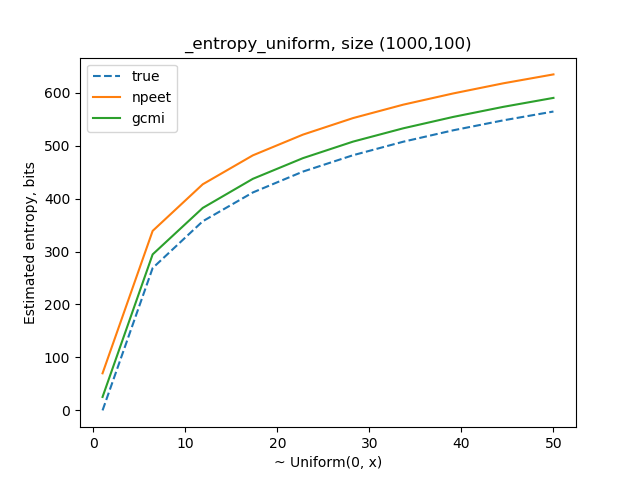
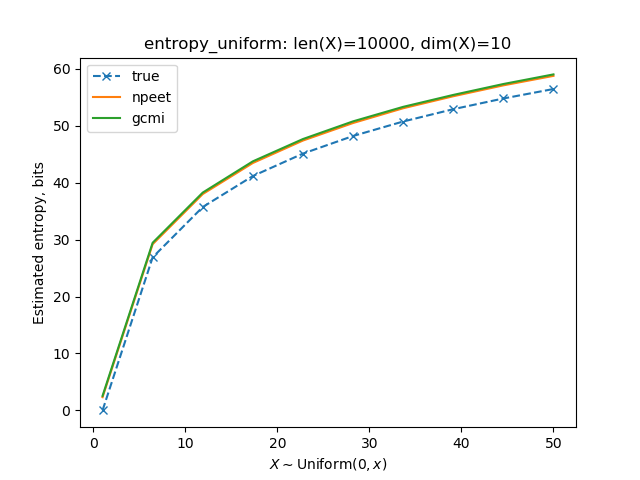
unified entropy and MI tests

diff --git a/experiments/mutual_information_test.py b/experiments/mutual_information_test.py
@@ -1,17 +1,14 @@
-import math
-import warnings
 from collections import defaultdict
 
 import matplotlib.pyplot as plt
 import numpy as np
-import sklearn.cluster
 from tqdm import tqdm
 
-from estimators import mine_mi, npeet_mi, gcmi_mi, discrete_mi, discrete_entropy
+from estimators import mine_mi, npeet_mi, gcmi_mi
 from experiments.entropy_test import generate_normal_correlated
 from utils.algebra import entropy_normal_theoretic
 from utils.common import set_seed, timer_profile, Timer
-from utils.constants import IMAGES_DIR
+from utils.constants import IMAGES_DIR, TIMINGS_DIR
 
 
 class MITest:
@@ -71,45 +68,15 @@ class MITest:
         return gcmi_mi(x, y)
 
     @timer_profile
-    def kmeans(self, n_clusters=None):
-        x = self.normalize(self.x)
-        y = self.normalize(self.y)
-        xy = np.c_[x, y]
-
-        def _kmeans(n_cl):
-            cluster = sklearn.cluster.KMeans(n_clusters=n_cl, n_init=2, max_iter=10)
-            with warnings.catch_warnings():
-                warnings.simplefilter('ignore')
-                x_clusters = cluster.fit_predict(x)
-                y_clusters = cluster.fit_predict(y)
-                xy_clusters = cluster.fit_predict(xy)
-            h_x = discrete_entropy(x_clusters)
-            h_y = discrete_entropy(y_clusters)
-            h_xy = discrete_entropy(xy_clusters)
-            return h_x + h_y - h_xy
-
-        if n_clusters is None:
-            n_clusters_max = math.ceil(math.sqrt(x.shape[0]))
-            n_clusters_max = max(2, n_clusters_max)
-            n_candidates = np.arange(n_clusters_max, 2*n_clusters_max + 1, step=1, dtype=int)
-            n_candidates = np.arange(n_clusters_max, x.shape[0] // 2, step=50)
-            mi = {n_cl: _kmeans(n_cl) for n_cl in n_candidates}
-            if self.verbose:
-                plt.plot(list(mi.keys()), list(mi.values()))
-                plt.show()
-            return max(mi.values())
-
-        return _kmeans(n_clusters)
-
-    @timer_profile
     def mine(self):
         x = self.normalize(self.x)
         y = self.normalize(self.y)
-        return mine_mi(x, y, hidden_units=128, epochs=50, verbose=self.verbose)
+        noise_std = 0.1 * np.std(x)
+        return mine_mi(x, y, hidden_units=128, epochs=50, noise_std=noise_std, verbose=self.verbose)
 
     def run_all(self):
         estimated = {}
-        for estimator in (self.npeet, self.gcmi, self.mine, self.kmeans):
+        for estimator in (self.npeet, self.gcmi, self.mine):
             try:
                 estimated[estimator.__name__] = estimator()
             except Exception as e:
@@ -127,8 +94,9 @@ def _mi_squared_integers(n_samples, n_features, param):
     return x, y, value_true
 
 
-def _mi_normal_correlated(n_samples, n_features, param):
-    xy, h_xy, cov_xy = generate_normal_correlated(n_samples, 2 * n_features, param)
+def _mi_normal_correlated(n_samples, n_features, param, loc=None):
+    # 2*n_features to generate both X and Y
+    xy, h_xy, cov_xy = generate_normal_correlated(n_samples, 2 * n_features, sigma=param, loc=loc)
     x, y = np.split(xy, 2, axis=1)
     cov_x = cov_xy[:n_features, :n_features]
     cov_y = cov_xy[n_features:, n_features:]
@@ -138,7 +106,13 @@ def _mi_normal_correlated(n_samples, n_features, param):
     return x, y, value_true
 
 
-def _mi_additive_noise(n_samples, n_features, param):
+def _mi_normal_different_location(n_samples, n_features, param):
+    # generate Multivariate Normal samples with sigma=10 and uniform locations
+    loc = np.random.uniform(low=0, high=param, size=2 * n_features)
+    return _mi_normal_correlated(n_samples=n_samples, n_features=n_features, param=10, loc=loc)
+
+
+def _mi_additive_normal_noise(n_samples, n_features, param):
     x, h_x, cov_x = generate_normal_correlated(n_samples, n_features, param)
     noise, h_noise, cov_noise = generate_normal_correlated(n_samples, n_features, 0.5 * param)
     y = x + noise
@@ -149,30 +123,38 @@ def _mi_additive_noise(n_samples, n_features, param):
 
 def mi_test(generator, n_samples=1000, n_features=10, parameters=np.linspace(1, 50, num=10), xlabel=''):
     estimated = defaultdict(list)
-    for param in tqdm(parameters, desc="entropy_test"):
+    for param in tqdm(parameters, desc=f"{generator.__name__} test"):
         x, y, mi_true = generator(n_samples, n_features, param)
-        # MITest(x=x, y=y, mi_true=mi_true, verbose=True).mine()
         estimated_test = MITest(x=x, y=y, mi_true=mi_true, verbose=False).run_all()
         estimated['true'].append(mi_true)
         for estimator_name, estimator_value in estimated_test.items():
             estimated[estimator_name].append(estimator_value)
     value_true = estimated.pop('true')
     plt.figure()
-    plt.plot(parameters, value_true, label='true', ls='--')
+    plt.plot(parameters, value_true, label='true', ls='--', marker='x')
     for estimator_name, estimator_value in estimated.items():
         plt.plot(parameters, estimator_value, label=estimator_name)
     plt.xlabel(xlabel)
     plt.ylabel('Estimated Mutual Information, bits')
-    plt.title(f"{generator.__name__}, size ({n_samples},{n_features})")
+    plt.title(f"{generator.__name__.lstrip('_mi_')}: len(X)={n_samples}, dim(X)={n_features}")
     plt.legend()
     plt.savefig(IMAGES_DIR / f"{generator.__name__}.png")
     plt.show()
 
 
-if __name__ == '__main__':
+def mi_all_tests(n_samples=10_000, n_features=10):
     set_seed(26)
-    # mi_test(_mi_squared_integers, n_samples=1000, n_features=5, xlabel='X ~ [0, x]; Y = X ^ 2')
-    # mi_test(_mi_normal_correlated, n_samples=1000, n_features=5, xlabel='XY ~ N(0, cov); cov ~ x')
-    mi_test(_mi_additive_noise, n_samples=1000, n_features=5, xlabel='X ~ N(0, x); Y = X + Noise')
+    mi_test(_mi_squared_integers, n_samples=n_samples, n_features=n_features,
+            xlabel=r'$X \sim $Randint$(0, x); Y = X^2$')
+    mi_test(_mi_normal_correlated, n_samples=n_samples, n_features=n_features,
+            xlabel=r'$XY \sim \mathcal{N}(0, \sigma^2), \sigma \sim $Uniform$(0, x)$')
+    mi_test(_mi_additive_normal_noise, n_samples=n_samples, n_features=n_features,
+            xlabel=r'$X \sim \mathcal{N}(0, x^2); Y = X + \epsilon,'
+                   r'\epsilon \sim \mathcal{N}(0,\left(\frac{x}{2}\right)^2$)')
+    mi_test(_mi_normal_different_location, n_samples=n_samples, n_features=n_features,
+            xlabel=r'$XY \sim \mathcal{N}(\mu, 10^2), \mu \sim $Uniform$(0, x)$')
+    Timer.checkpoint(fpath=TIMINGS_DIR / "mutual_information.txt")
 
-    Timer.checkpoint()
+
+if __name__ == '__main__':
+    mi_all_tests()

diff --git a/experiments/entropy_test.py b/experiments/entropy_test.py
@@ -4,10 +4,10 @@ import matplotlib.pyplot as plt
 import numpy as np
 from tqdm import tqdm
 
-from estimators import npeet_entropy, gcmi_entropy, discrete_entropy
-from utils.common import set_seed, timer_profile, Timer
-from utils.constants import IMAGES_DIR
+from estimators import npeet_entropy, gcmi_entropy
 from utils.algebra import entropy_normal_theoretic
+from utils.common import set_seed, timer_profile, Timer
+from utils.constants import IMAGES_DIR, TIMINGS_DIR
 
 
 class EntropyTest:
@@ -64,63 +64,70 @@ class EntropyTest:
         return estimated
 
 
-def generate_normal_correlated(n_samples, n_features, sigma):
+def generate_normal_correlated(n_samples, n_features, sigma, loc=None):
     cov = np.random.uniform(low=0, high=sigma, size=(n_features, n_features))
     cov = cov.dot(cov.T)  # make cov positive definite
-    x = np.random.multivariate_normal(mean=np.repeat(0, n_features), cov=cov, size=n_samples)
-    value_true = entropy_normal_theoretic(cov)
-    return x, value_true, cov
+    if loc is None:
+        loc = np.repeat(0, n_features)
+    x = np.random.multivariate_normal(mean=loc, cov=cov, size=n_samples)
+    entropy_true = entropy_normal_theoretic(cov)
+    return x, entropy_true, cov
 
 
 def _entropy_normal_correlated(n_samples, n_features, param):
-    x, value_true, cov = generate_normal_correlated(n_samples, n_features, param)
-    return x, value_true
+    x, entropy_true, cov = generate_normal_correlated(n_samples, n_features, param)
+    return x, entropy_true
 
 
 def _entropy_uniform(n_samples, n_features, param):
-    x = np.random.uniform(low=-param / 2, high=param / 2, size=(n_samples, n_features))
-    value_true = n_features * np.log2(param)
-    return x, value_true
+    x = np.random.uniform(low=0, high=param, size=(n_samples, n_features))
+    entropy_true = n_features * np.log2(param)
+    return x, entropy_true
 
 
 def _entropy_exponential(n_samples, n_features, param):
     # here param is scale (inverse of rate)
     x = np.random.exponential(scale=param, size=(n_samples, n_features))
-    value_true = n_features * (1. + np.log(param)) * np.log2(np.e)
-    return x, value_true
+    entropy_true = n_features * (1. + np.log(param)) * np.log2(np.e)
+    return x, entropy_true
 
 
 def _entropy_randint(n_samples, n_features, param):
     x = np.random.randint(low=0, high=param + 1, size=(n_samples, n_features))
-    value_true = n_features * np.log2(param)
-    return x, value_true
+    entropy_true = n_features * np.log2(param)
+    return x, entropy_true
 
 
 def entropy_test(generator, n_samples=1000, n_features=10, parameters=np.linspace(1, 50, num=10), xlabel=''):
     estimated = defaultdict(list)
-    for param in tqdm(parameters, desc="entropy_test"):
-        x, true = generator(n_samples, n_features, param)
-        estimated_test = EntropyTest(x=x, entropy_true=true, verbose=False).run_all()
-        estimated['true'].append(true)
+    for param in tqdm(parameters, desc=f"{generator.__name__} test"):
+        x, entropy_true = generator(n_samples, n_features, param)
+        estimated_test = EntropyTest(x=x, entropy_true=entropy_true, verbose=False).run_all()
+        estimated['true'].append(entropy_true)
         for estimator_name, estimator_value in estimated_test.items():
             estimated[estimator_name].append(estimator_value)
-    value_true = estimated.pop('true')
+    entropy_true = estimated.pop('true')
     plt.figure()
-    plt.plot(parameters, value_true, label='true', ls='--')
+    plt.plot(parameters, entropy_true, label='true', ls='--', marker='x')
     for estimator_name, estimator_value in estimated.items():
         plt.plot(parameters, estimator_value, label=estimator_name)
     plt.xlabel(xlabel)
     plt.ylabel('Estimated entropy, bits')
-    plt.title(f"{generator.__name__}, size ({n_samples},{n_features})")
+    plt.title(f"{generator.__name__.lstrip('_')}: len(X)={n_samples}, dim(X)={n_features}")
     plt.legend()
     plt.savefig(IMAGES_DIR / f"{generator.__name__}.png")
     plt.show()
 
 
-if __name__ == '__main__':
+def entropy_all_tests(n_samples=10_000, n_features=10):
     set_seed(26)
-    entropy_test(_entropy_randint, n_samples=2000, n_features=11, parameters=np.arange(1, 10), xlabel='~ [0, high=x]')
-    entropy_test(_entropy_normal_correlated, n_features=100, xlabel='~ MultiVariateNormal(0, cov~x)')
-    entropy_test(_entropy_uniform, n_features=100, xlabel='~ Uniform(0, x)')
-    entropy_test(_entropy_exponential, n_features=100, xlabel='~ Exp(scale=x)')
-    Timer.checkpoint()
+    entropy_test(_entropy_randint, n_samples=n_samples, n_features=n_features, xlabel=r'$X \sim $Randint$(0, x)$')
+    entropy_test(_entropy_normal_correlated, n_samples=n_samples, n_features=n_features,
+                 xlabel=r'$X \sim \mathcal{N}(0, \sigma^2), \sigma \sim $Uniform$(0, x)$')
+    entropy_test(_entropy_uniform, n_samples=n_samples, n_features=n_features, xlabel=r'$X \sim $Uniform$(0, x)$')
+    entropy_test(_entropy_exponential, n_samples=n_samples, n_features=n_features, xlabel=r'$X \sim $Exp(scale=x)')
+    Timer.checkpoint(fpath=TIMINGS_DIR / "entropy.txt")
+
+
+if __name__ == '__main__':
+    entropy_all_tests()

diff --git a/estimators/mine.py b/estimators/mine.py
@@ -131,7 +131,7 @@ class MutualInfoNeuralEstimationTrainer:
         plt.xlabel("Iteration")
         plt.ylabel("I(X;Y), bits")
         plt.title(f"max(I) = {mi_smooth[mi_argmax]:.2f} bits")
-        plt.scatter(mi_argmax, mi_smooth[mi_argmax], c='#ff7f0e', marker='D')
+        plt.scatter(mi_argmax, mi_smooth[mi_argmax], c='#ff7f0e', marker='x')
         plt.show()
 
     def get_mutual_info(self):
@@ -144,7 +144,7 @@ class MutualInfoNeuralEstimationTrainer:
         return self._smooth().max()
 
 
-def mine_mi(x, y, hidden_units=64, noise_variance=0, epochs=10, tol=1e-2, verbose=False):
+def mine_mi(x, y, hidden_units=64, noise_std=0., epochs=10, tol=1e-2, verbose=False):
     """
     MINE estimation of I(X;Y).
 
@@ -154,8 +154,8 @@ def mine_mi(x, y, hidden_units=64, noise_variance=0, epochs=10, tol=1e-2, verbos
         Realizations of X and Y multidimensional random variables of sizes (N, xdim) and (N, ydim).
     hidden_units : int
         Dimensionality of the hidden layer.
-    noise_variance : float
-        Noise variance.
+    noise_std : float
+        Additive noise standard deviation (scale).
     epochs : int
         No. of training epochs on the same data.
     tol : float
@@ -172,7 +172,7 @@ def mine_mi(x, y, hidden_units=64, noise_variance=0, epochs=10, tol=1e-2, verbos
     """
     x = torch.as_tensor(x, dtype=torch.float32)
     y = torch.as_tensor(y, dtype=torch.float32)
-    normal_sampler = torch.distributions.normal.Normal(loc=0, scale=np.sqrt(noise_variance))
+    normal_sampler = torch.distributions.normal.Normal(loc=0, scale=noise_std)
     mine_net = MutualInfoNeuralEstimationNetwork(x_size=x.shape[1], y_size=y.shape[1], hidden_units=hidden_units)
     mine_trainer = MutualInfoNeuralEstimationTrainer(mine_net)
 

diff --git a/utils/common.py b/utils/common.py
@@ -1,3 +1,4 @@
+import random
 import time
 from collections import defaultdict
 from functools import wraps
@@ -11,14 +12,17 @@ class Timer:
     timings = defaultdict(list)
 
     @staticmethod
-    def checkpoint():
-        for func_name, elapsed_ms_list in Timer.timings.items():
-            print(f"{func_name}: {np.mean(elapsed_ms_list):.3f} ms")
+    def checkpoint(fpath=None):
+        def print_all(file=None):
+            for func_name, elapsed_ms_list in Timer.timings.items():
+                print(f"{func_name}: {np.mean(elapsed_ms_list):.3f} ms", file=file)
+        print_all()
+        if fpath is not None:
+            with open(fpath, 'w') as f:
+                print_all(file=f)
 
 
 def set_seed(seed: int):
-    import random
-    import numpy as np
     random.seed(seed)
     np.random.seed(seed)
     torch.manual_seed(seed)

diff --git a/experiments/softmax.py b/experiments/softmax.py
@@ -42,7 +42,7 @@ class SoftmaxTest:
         """
         labels = to_onehot(self.labels)
         estimated = mine_mi(self.softmax, y=labels, hidden_units=hidden_units,
-                            noise_variance=noise_variance, epochs=epochs, verbose=self.verbose)
+                            noise_std=noise_variance, epochs=epochs, verbose=self.verbose)
         return estimated
 
     def kmeans(self, n_clusters=None):

diff --git a/utils/constants.py b/utils/constants.py
@@ -4,8 +4,10 @@ from pathlib import Path
 ROOT_DIR = Path(__file__).parent.parent
 DATA_DIR = ROOT_DIR / "data"
 IMAGES_DIR = ROOT_DIR / "images"
+TIMINGS_DIR = ROOT_DIR / "timings"
 
 DATA_DIR.mkdir(exist_ok=True)
 IMAGES_DIR.mkdir(exist_ok=True)
+TIMINGS_DIR.mkdir(exist_ok=True)
 
 BATCH_SIZE = int(os.environ.get('BATCH_SIZE', 256))

diff --git a/README.md b/README.md
@@ -37,7 +37,7 @@ The input to estimators are arrays of size `(n_samples, n_features)`.
 
 ![](images/_entropy_exponential.png)
 
-2. MultiVariateNormal distribution with a covariance matrix with diagonal elements equal to `x^2` and smaller non-diagonal covariance values. For std=1 and `n_features=3`,
+2. MultiVariateNormal distribution with a covariance matrix with diagonal elements equal to `x^2` and smaller non-diagonal covariance values. The covariance matrix for `sigma=1` and `n_features=3` is
 
 ```
 [[1.         0.25       0.16666667]
